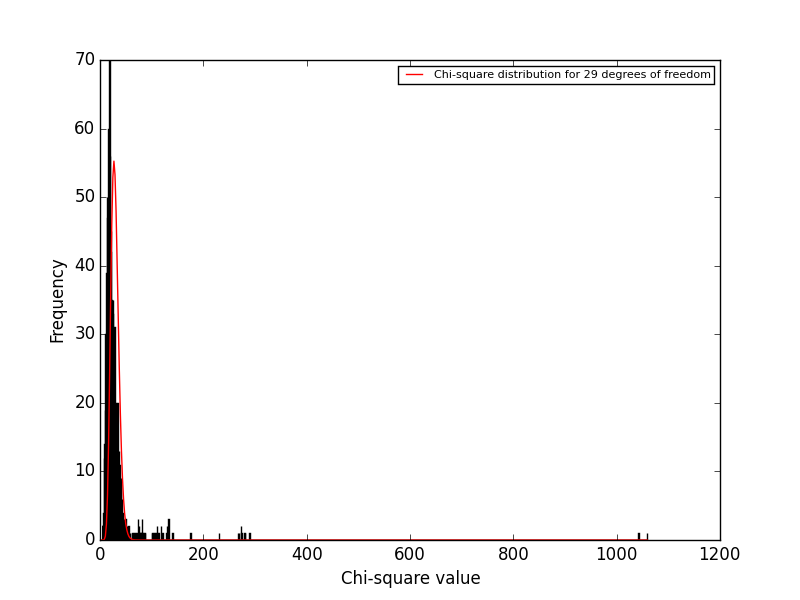
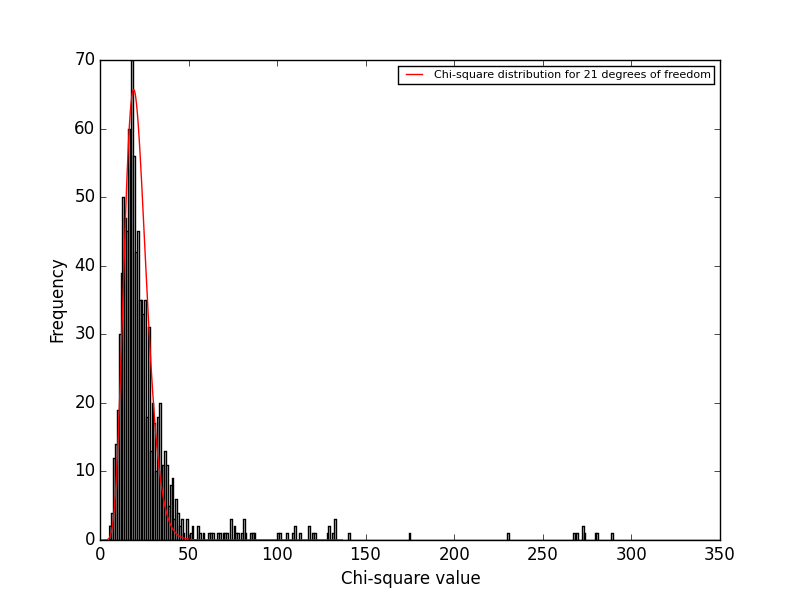
truncated graph of chi square poisson

diff --git a/Geiger/geigerStats1.py b/Geiger/geigerStats1.py
@@ -155,7 +155,7 @@ sampleColVar = cVar(sTranspose,sampleColMean)
 #################################### EXPERIMENTAL DATA ####################################
 
 # Load data from run of choice
-gData = histogram
+gData = run7
 # Transpose for ease of use in column calculations 
 gDataTransposed = numpy.transpose(gData)
 
@@ -316,10 +316,12 @@ exec("plt.savefig('Poissonvarmean_%s.png',dpi=150)"%int(overallMean))
 plt.figure(figsize=(8,6), dpi=150)
 plt.hist(csp1024,bins=1024,color='lightgrey')
 df = totalDOF-1
-x = numpy.linspace(0,max(csp1024),num=512)
+x = numpy.linspace(0,max(csp128),num=512)
 y = numpy.multiply(chi2.pdf(x,df),1024)
 plt.xlabel("Chi-square value",fontsize=12)
 plt.ylabel("Frequency",fontsize=12)
+axes = plt.gca()
+axes.set_xlim([0,350])
 plt.plot(x,y,color='red',label="Chi-square distribution for %d degrees of freedom"%df)
 plt.legend(fontsize=8)
 plt.savefig('chisq_1024.png')
